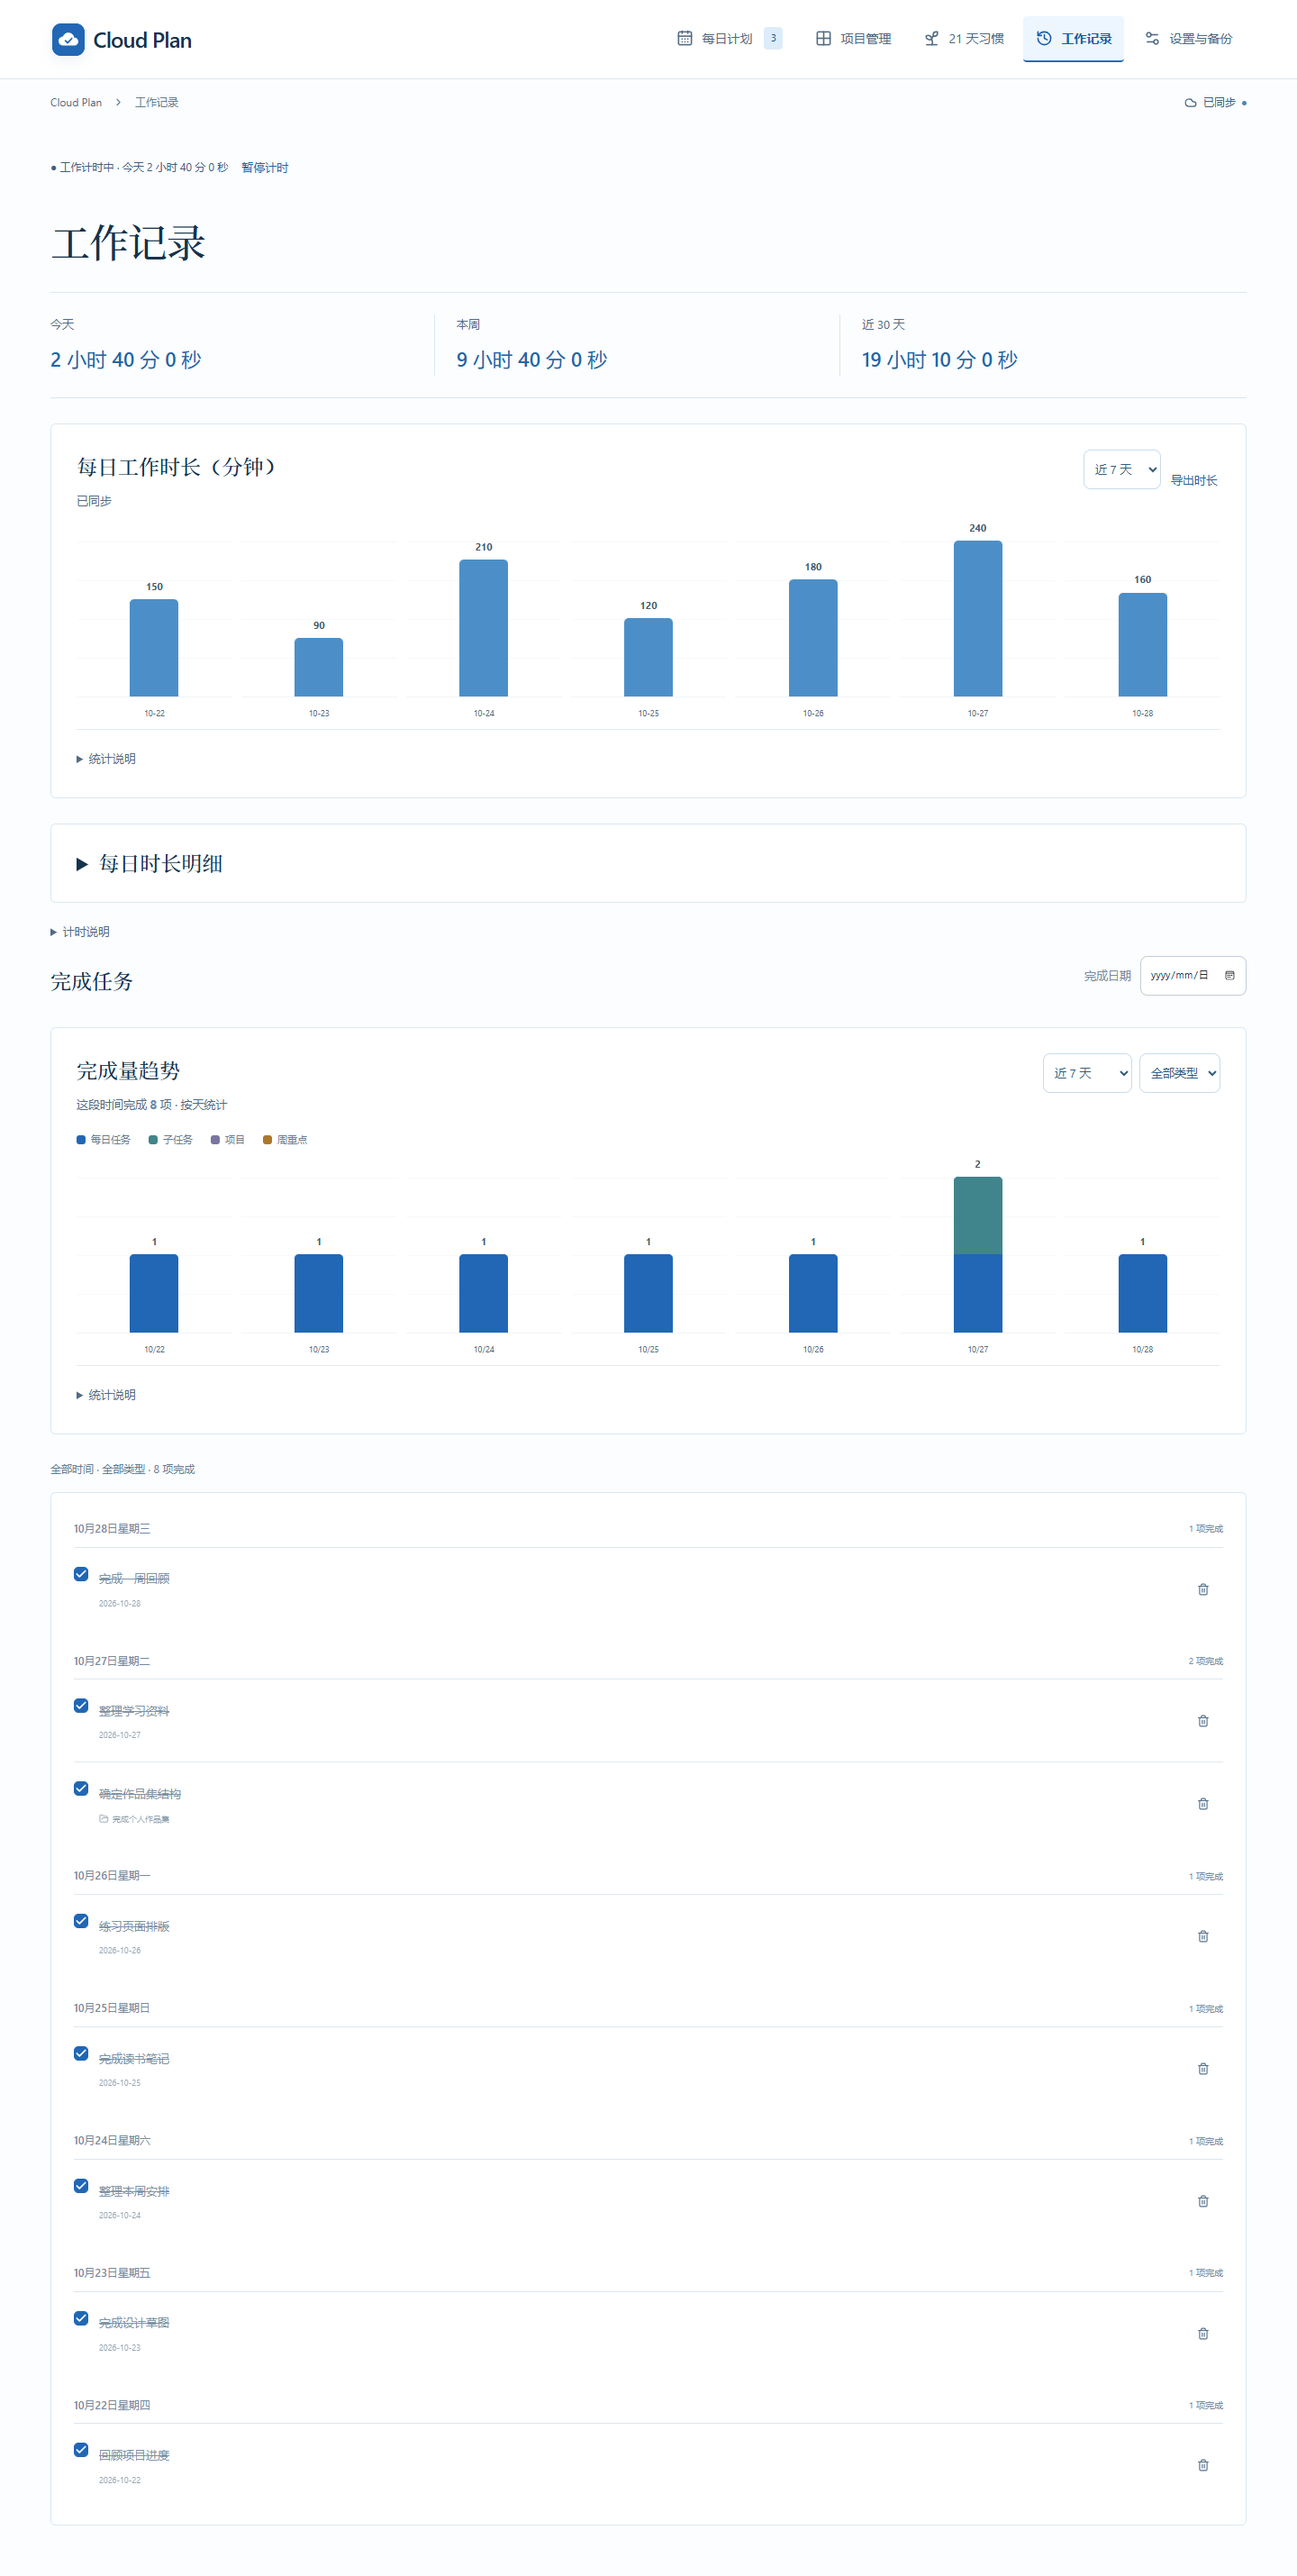
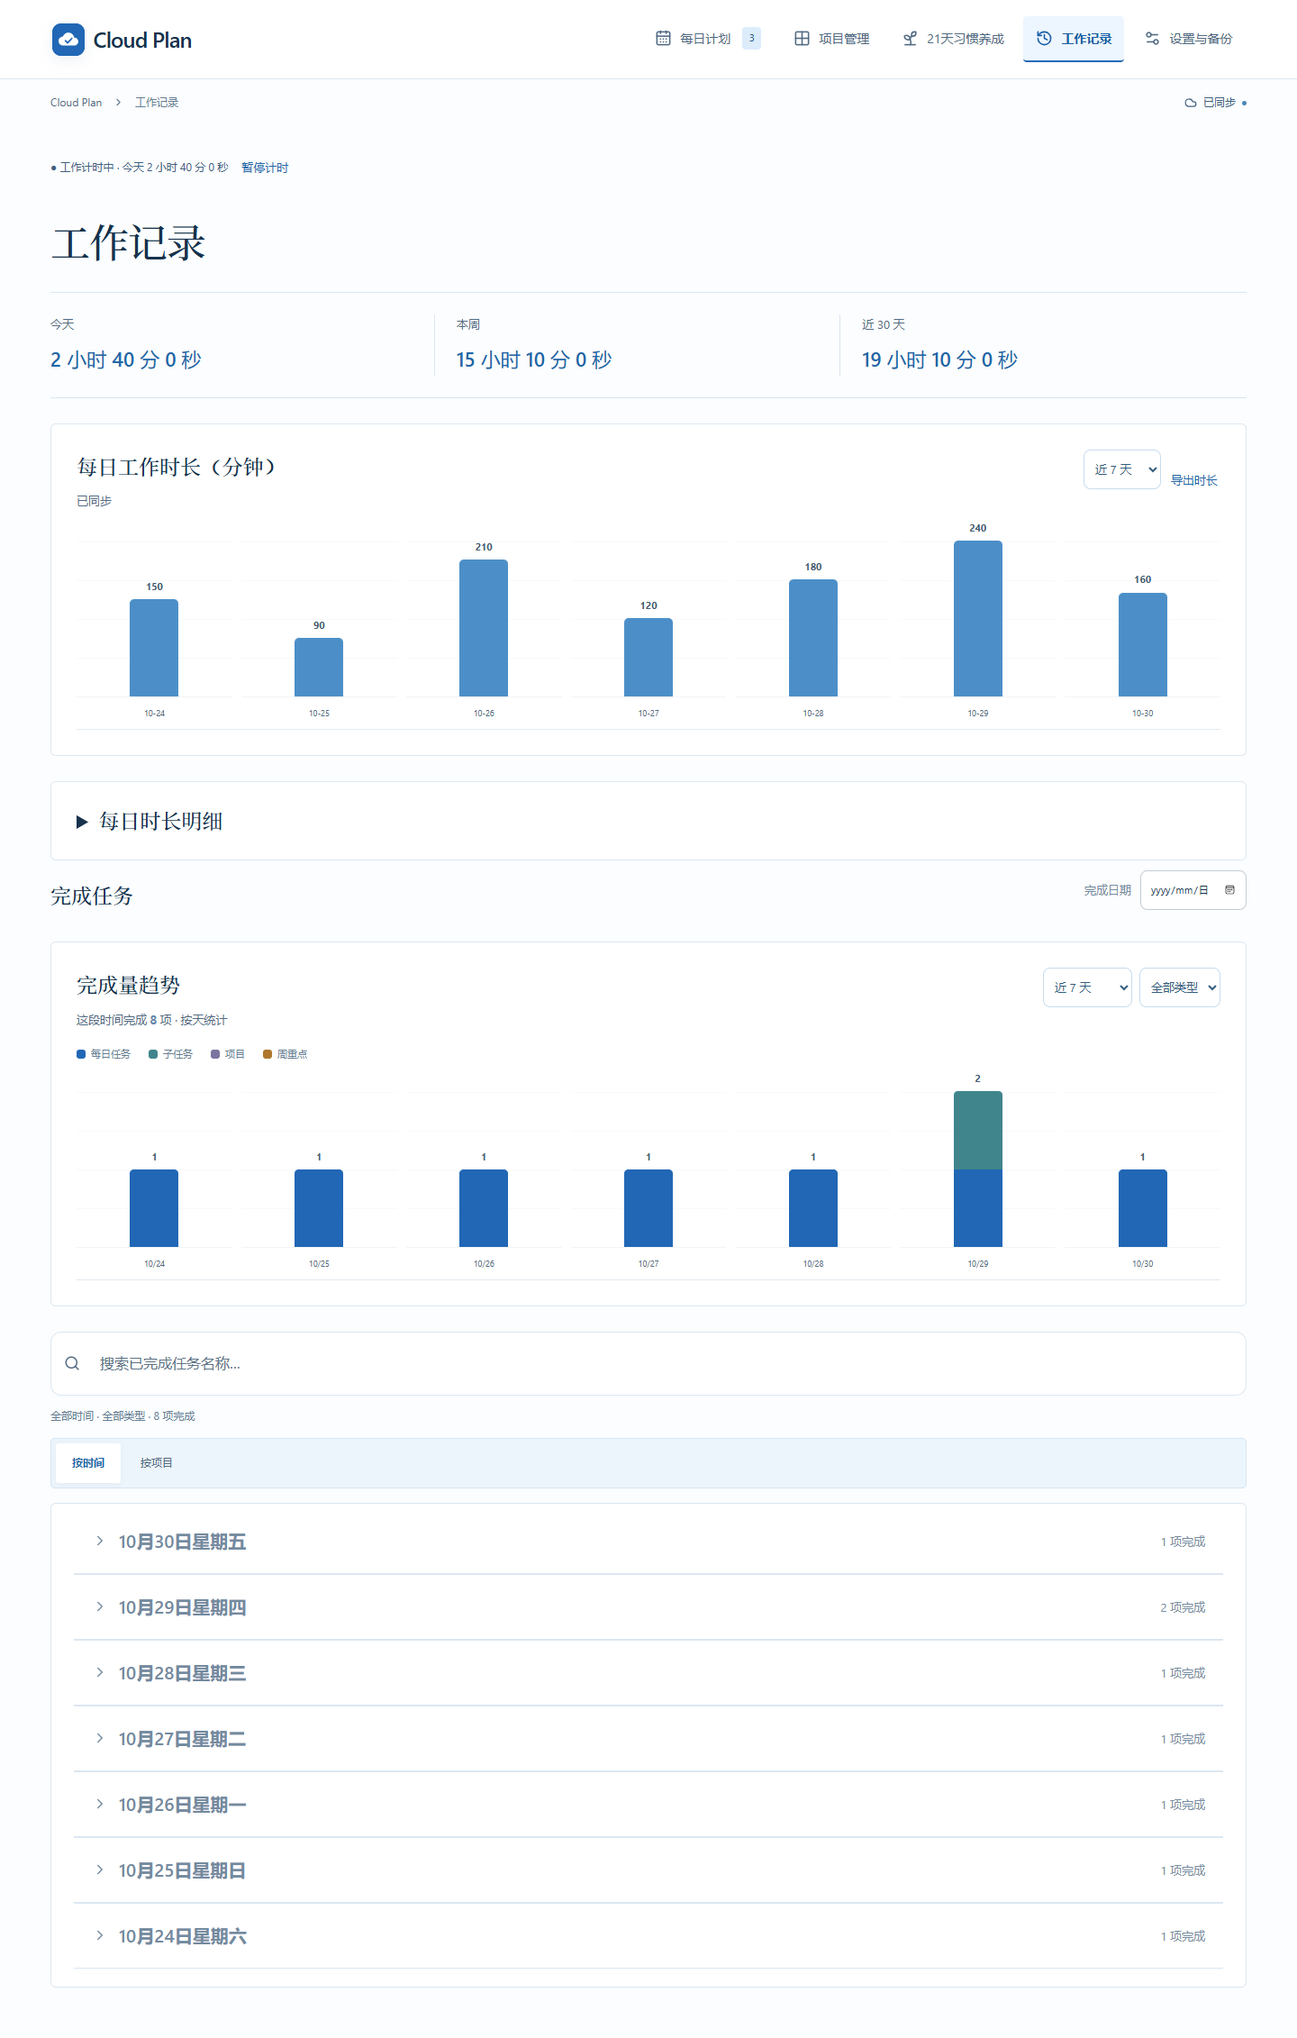
docs: document recent planning features and refresh screenshots

diff --git a/README.md b/README.md
@@ -8,7 +8,7 @@ Cloud Plan 是一款中文个人计划工具，将每日清单、周重点、长
 
 ![Cloud Plan 欢迎页](docs/images/welcome.png)
 
-> 以下为 2026-10-28 更新的「晴空编辑部」界面演示截图，不包含真实个人计划或访问密钥。点击图片可查看大图。
+> 以下为 2026-10-30 更新的「晴空编辑部」界面演示截图，不包含真实个人计划或访问密钥。点击图片可查看大图。
 
 ## 界面一览
 
@@ -17,8 +17,8 @@ Cloud Plan 是一款中文个人计划工具，将每日清单、周重点、长
 | 页面 / 区域 | 你可以看到和完成什么 |
 | --- | --- |
 | 每日计划 | 本周重点、七天概览、当天待办、完成进度和往日未完成事项 |
-| 项目管理 | 项目与子项目层级、子任务四象限、每日安排和周目标关联 |
-| 21 天习惯 | 习惯卡片、21 天打卡格、练习进度和每日提醒 |
+| 项目管理 | 项目层级、漂浮四象限、时间轴、每日安排和周目标关联 |
+| 21天习惯养成 | 习惯卡片、21 天打卡格、练习进度和每日提醒 |
 | 工作记录 | 今日、本周、近 30 天工作时长，以及完成量趋势与完成记录 |
 | 设置与备份 | 导出与恢复计划数据、管理当前设备记住的访问密钥 |
 
@@ -32,6 +32,7 @@ Cloud Plan 是一款中文个人计划工具，将每日清单、周重点、长
 
 - **当日进度**：通过概览与进度环查看当天的完成情况。
 - **目标联动**：项目或周重点的子任务可一键加入选定日期的每日清单，完成状态在各视图保持一致。
+- **拖动改期**：通过任务的拖动安排入口，将每日任务或周重点子任务拖到日期目标，调整计划日期。项目子任务也可撤回每日计划，保留原项目记录。
 - **往日待办**：展开未完成事项，按需逐条或批量顺延，避免遗漏。
 - **即时操作反馈**：新增与排序立即显示，后台保存状态帮助确认是否已同步。
 
@@ -53,15 +54,27 @@ Cloud Plan 是一款中文个人计划工具，将每日清单、周重点、长
 
 - **安排到每天**：选择安排日期，点击子任务的“加入每日计划”。各页面引用同一条记录，避免重复创建任务。
 - **关联周目标**：将项目加入选定周的目标，在每日页面的周计划区域继续查看和推进。
-- **层级进度**：项目汇总后代子任务的完成数量，方便同时查看阶段与整体进展。
+- **层级进度**：项目显示后代子任务完成数量与百分比，方便同时查看阶段与整体进展。
+- **拖动调整层级**：将项目拖入其他项目，重新组织所属关系。
+- **完成后归档**：已完成项目移入工作记录，项目中的已完成子任务折叠收纳。
 
 ### 子任务四象限
 
 ![子任务四象限：按重要和紧急程度分类，直接安排到每日计划](docs/images/goals.png)
 
-切换到“子任务四象限”，集中查看未完成的子任务。四个区域分别对应重要且紧急、重要不紧急、不重要但紧急、不重要不紧急；任务行显示所属项目、日期及操作入口。
+切换到“子任务四象限”，按重要与紧急程度查看未完成子任务，也可用顶部分类按钮只显示一个象限。
 
-可以拖动手柄调整子任务分类，也可编辑任务修改重要与紧急属性。项目列表负责组织层级，四象限帮助选择行动优先级。
+- **漂浮任务卡片**：卡片随标题长度调整尺寸，以颜色体现截止日期优先级，在区域内缓慢移动并避让。
+- **项目气泡**：椭圆气泡包裹所属项目的任务，嵌套气泡表达子项目层级。直接子项目超过 3 个时省略该层气泡，减少视觉拥挤。
+- **展开与迁移**：单击标题查看详情；鼠标按住即可拖动，触屏长按约 180 毫秒后拖动，通过迁移目标调整象限。键盘可使用 Shift+Enter 选择象限。
+
+### 项目时间轴与截止日期
+
+![项目时间轴：按日期查看项目截止时间和子任务安排](docs/images/timeline.png)
+
+时间轴按日期展示进行中的项目和子任务，没有日期的事项列在“尚未安排”。父子项截止日期相同时合并展示，减少重复信息。
+
+新建子任务默认带入项目截止日期。设置项目截止日期时，尚未设置截止日期或晚于父项目的后代会同步调整；原本更早的截止日期保留。
 
 ## 21 天习惯：让每天的坚持看得见
 
@@ -73,7 +86,7 @@ Cloud Plan 是一款中文个人计划工具，将每日清单、周重点、长
 
 每张卡片展示 **21 个自然日的打卡格、已完成天数和百分比进度**。当天可以一键打卡，也可以补打过去日期或撤销记录；未来日期不能提前打卡，有记录后开始日期固定。
 
-到提醒时间仍未打卡时，页面会显示提示。还可以主动开启本机浏览器通知，但需要保持网页打开，后台通知可能延迟。21 天是练习周期，不代表每个人都能在这段时间内自动养成习惯。
+到提醒时间仍未打卡时，习惯导航图标会出现提示点。还可以主动开启本机浏览器通知，但需要保持网页打开，后台通知可能延迟。21 天是练习周期，不代表每个人都能在这段时间内自动养成习惯。
 
 ## 工作记录：回顾时间投入与完成成果
 
@@ -96,6 +109,12 @@ Cloud Plan 是一款中文个人计划工具，将每日清单、周重点、长
 通过彩色堆叠柱状图查看近 7 天、近 30 天或近 12 个月的完成量，也可按每日任务、子任务、项目和周重点筛选。
 
 点击柱子即可查看对应日期或月份的完成事项，再次点击取消筛选。记录按实际完成时间（北京时间）归档，支持取消完成；项目与子任务分别计数，习惯打卡不混入任务完成量。
+
+### 搜索与分组回顾
+
+![完成记录按项目分组，支持按名称搜索](docs/images/history-projects.png)
+
+输入任务名称搜索已完成事项，并结合日期和类型筛选。记录支持“按时间”和“按项目”切换，分组默认折叠，展开后查看详情；未关联项目的事项单独归组。已完成项目也可在这里回顾。
 
 ## 云端同步与备份
 
